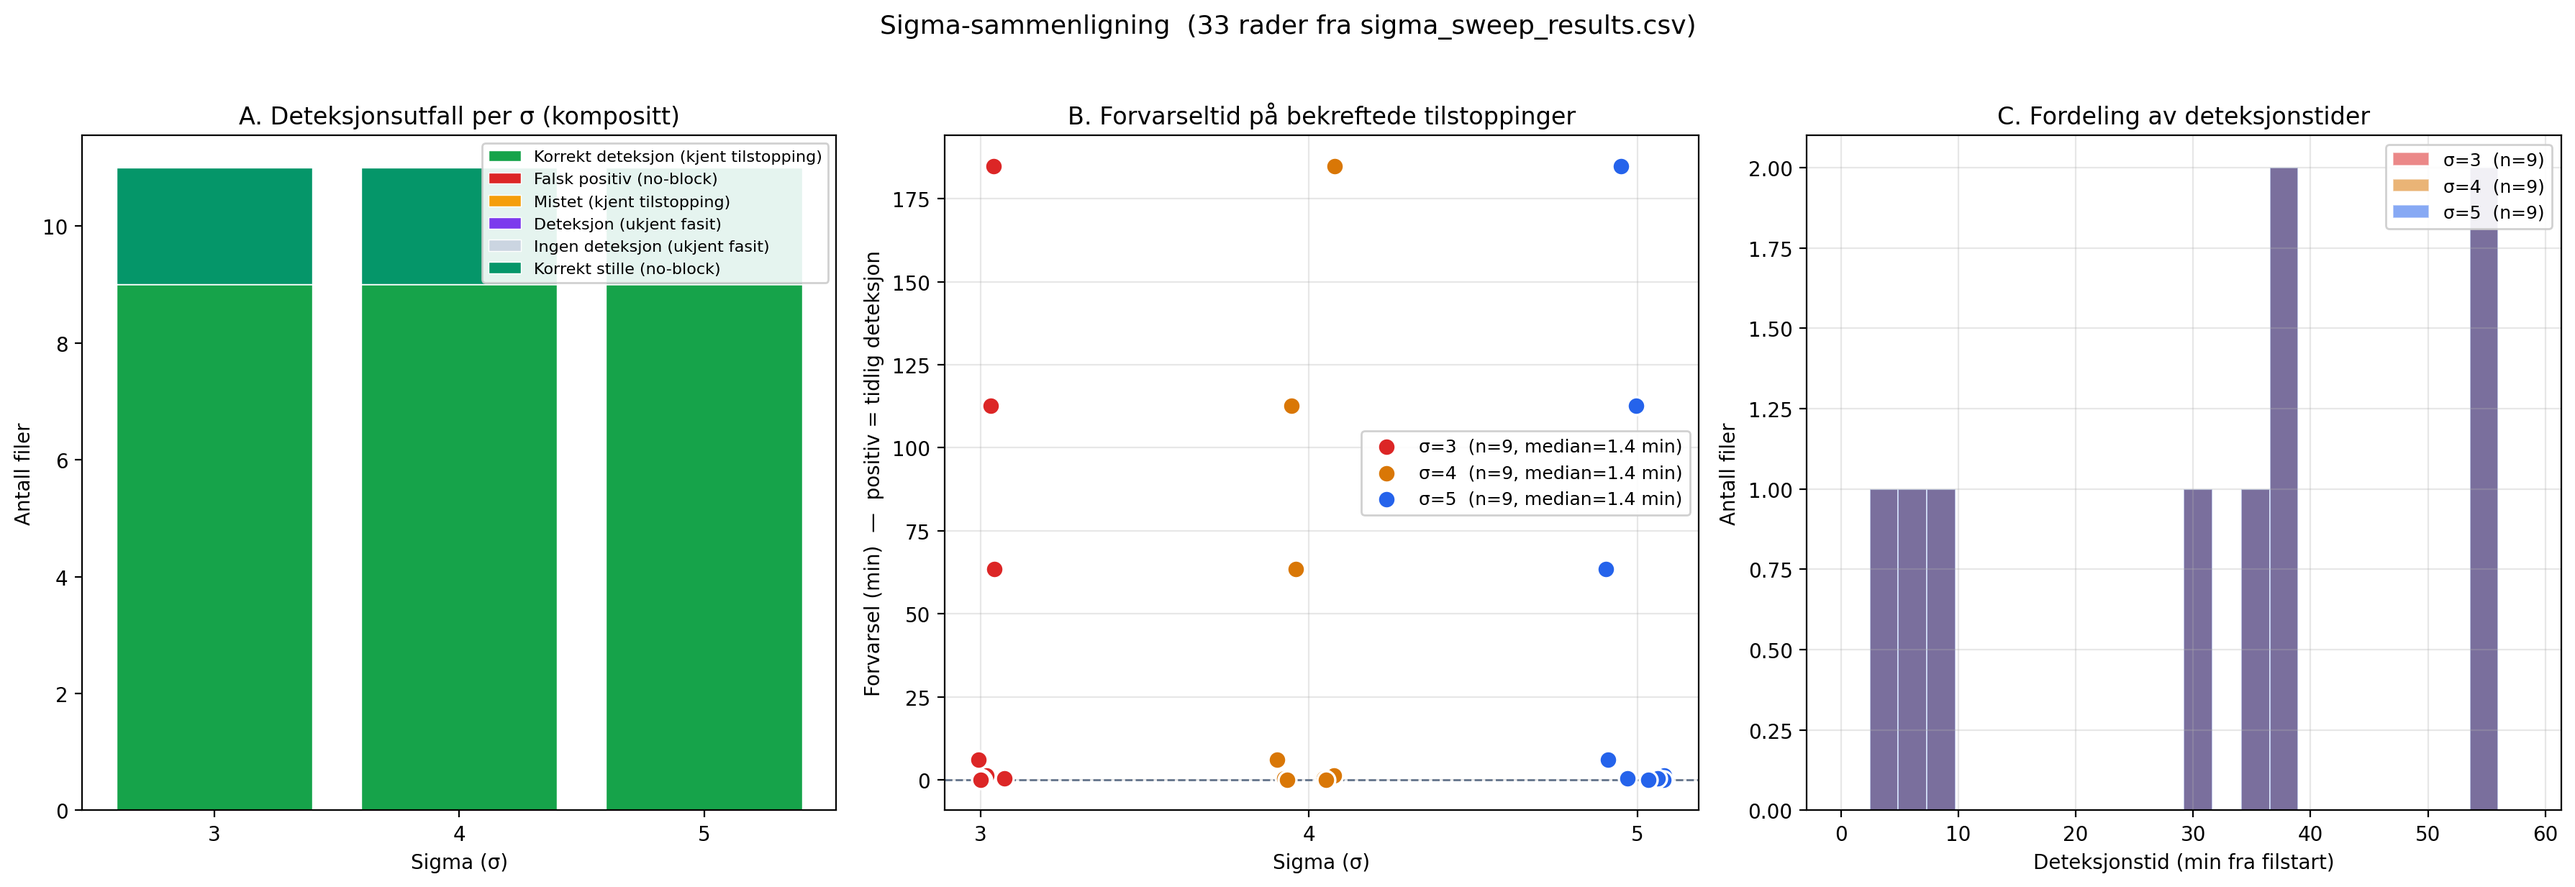
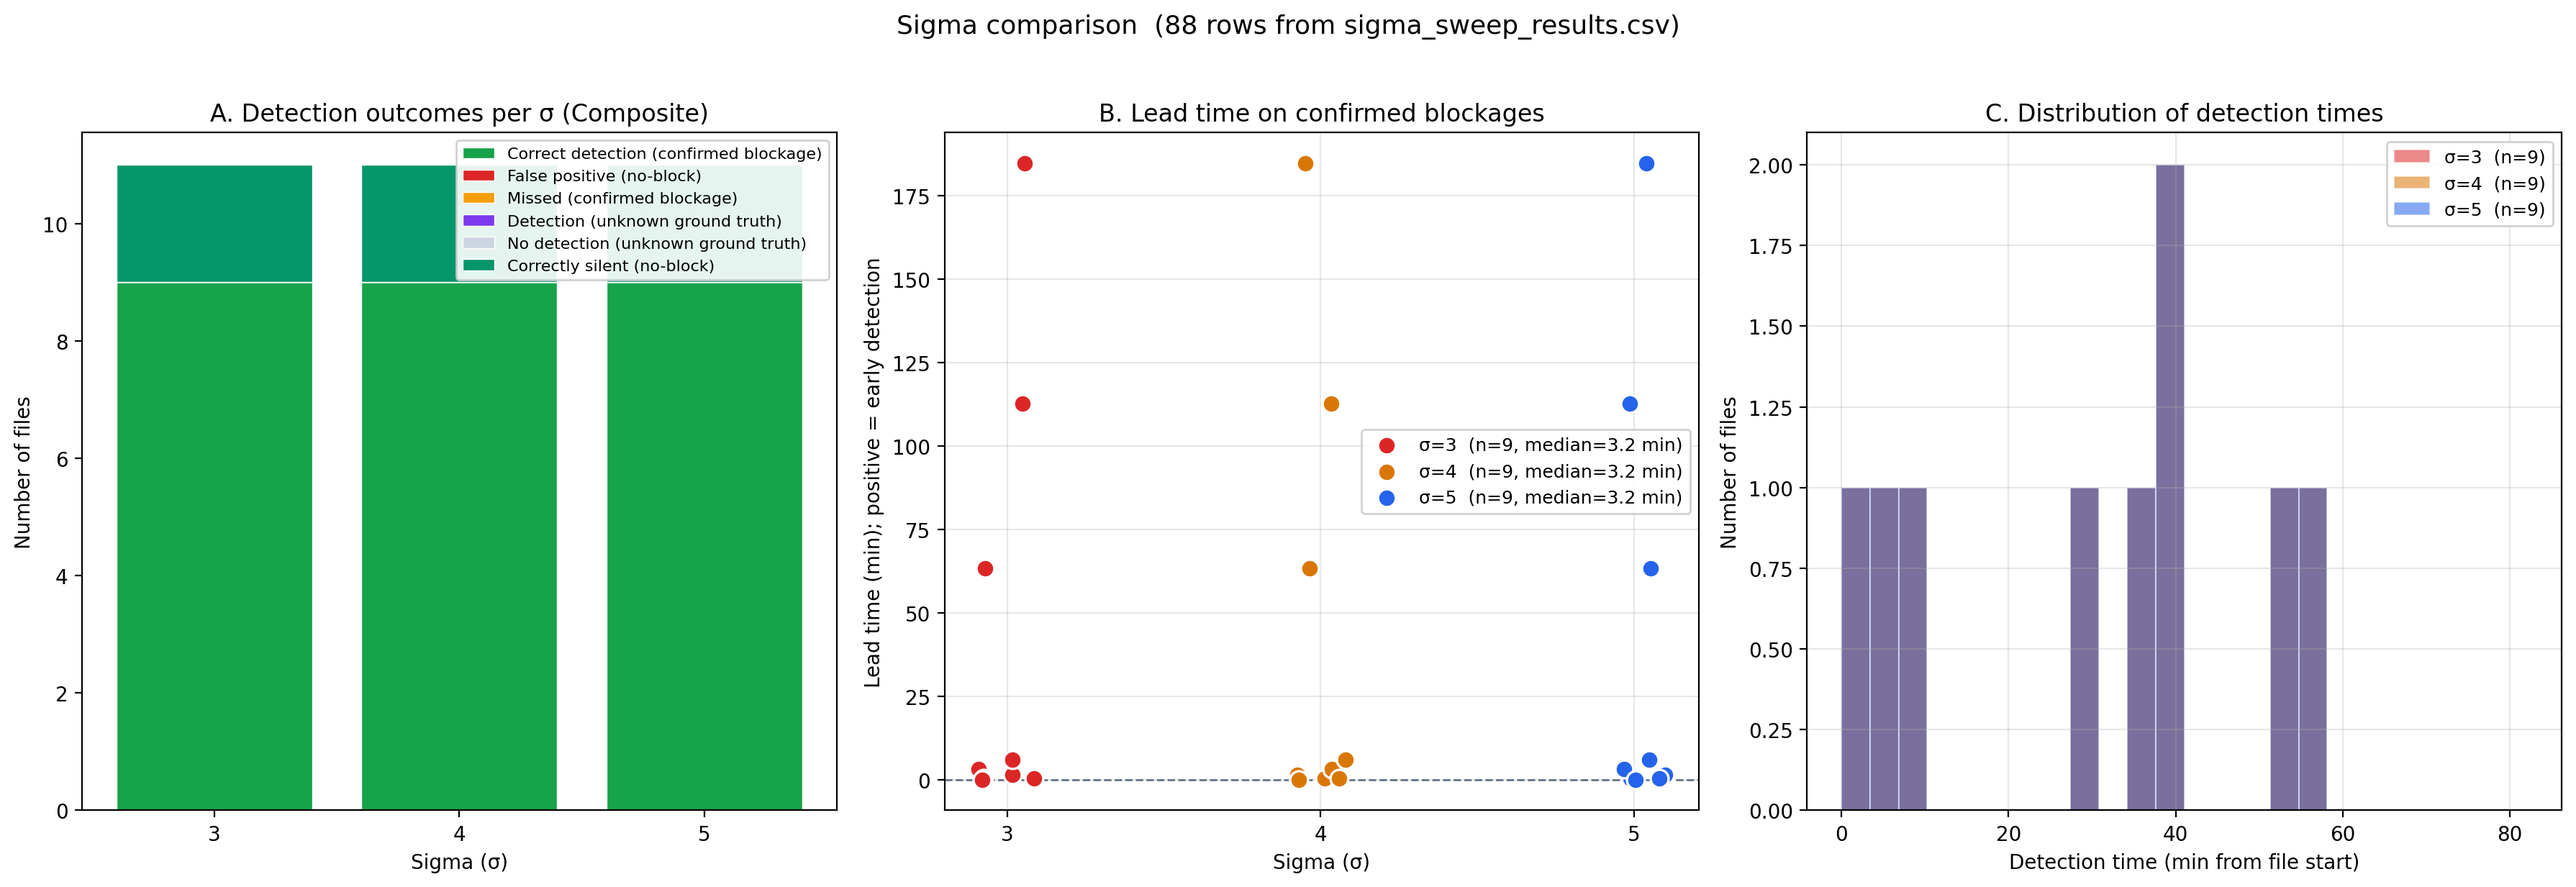
Regenerate sigma histogram and add per-run split analysis
- sigma_sweep_results.csv: correct 18-11-LF blockage time (6.833 -> 10.0),
  restoring its ~3.2 min lead; other rows unchanged.
- sigma_histogram.py: fix crash on the expanded sigma=1..8 sweep (skip the
  sigmas the figure does not plot); translate labels from Norwegian to
  English to match the thesis. Regenerated PNGs reflect the corrected lead.
- split_2906_by_run.py: new script reproducing the per-run analysis of
  29-06-LF (split at documented run timecodes, per-run calibration).

diff --git a/sigma_histogram.py b/sigma_histogram.py
@@ -67,6 +67,8 @@ def tally_per_sigma(rows: list[dict]) -> dict[int, dict[str, int]]:
     """Group rows by sigma and count outcome categories."""
     buckets: dict[int, dict[str, int]] = {s: {} for s in SIGMA_COLORS}
     for r in rows:
+        if r["sigma"] not in buckets:  # only the sigmas this figure plots (3, 4, 5)
+            continue
         cat = classify(r)
         buckets[r["sigma"]][cat] = buckets[r["sigma"]].get(cat, 0) + 1
     return buckets
@@ -79,12 +81,12 @@ def plot_outcome_bars(ax, counts: dict[int, dict[str, int]]) -> None:
     categories = ["true_positive", "false_positive", "missed",
                   "unknown_detected", "unknown_silent", "true_negative"]
     cat_labels = {
-        "true_positive":    "Korrekt deteksjon (kjent tilstopping)",
-        "false_positive":   "Falsk positiv (no-block)",
-        "missed":           "Mistet (kjent tilstopping)",
-        "unknown_detected": "Deteksjon (ukjent fasit)",
-        "unknown_silent":   "Ingen deteksjon (ukjent fasit)",
-        "true_negative":    "Korrekt stille (no-block)",
+        "true_positive":    "Correct detection (confirmed blockage)",
+        "false_positive":   "False positive (no-block)",
+        "missed":           "Missed (confirmed blockage)",
+        "unknown_detected": "Detection (unknown ground truth)",
+        "unknown_silent":   "No detection (unknown ground truth)",
+        "true_negative":    "Correctly silent (no-block)",
     }
     cat_colors = {
         "true_positive":    "#16a34a",
@@ -103,8 +105,8 @@ def plot_outcome_bars(ax, counts: dict[int, dict[str, int]]) -> None:
         bottoms += vals
     ax.set_xticks(sigmas)
     ax.set_xlabel("Sigma (σ)")
-    ax.set_ylabel("Antall filer")
-    ax.set_title("A. Deteksjonsutfall per σ (kompositt)")
+    ax.set_ylabel("Number of files")
+    ax.set_title("A. Detection outcomes per σ (Composite)")
     ax.legend(fontsize=8, loc="upper right", framealpha=0.9)
 
 
@@ -122,8 +124,8 @@ def plot_lead_times(ax, rows: list[dict]) -> None:
     ax.axhline(0, color="#64748b", linestyle="--", linewidth=1)
     ax.set_xticks(sorted(SIGMA_COLORS))
     ax.set_xlabel("Sigma (σ)")
-    ax.set_ylabel("Forvarsel (min)  —  positiv = tidlig deteksjon")
-    ax.set_title("B. Forvarseltid på bekreftede tilstoppinger")
+    ax.set_ylabel("Lead time (min); positive = early detection")
+    ax.set_title("B. Lead time on confirmed blockages")
     ax.legend(fontsize=9, loc="best", framealpha=0.9)
     ax.grid(True, alpha=0.3)
 
@@ -132,7 +134,7 @@ def plot_crossing_histogram(ax, rows: list[dict]) -> None:
     """Panel C — histogram of composite crossing times, per sigma."""
     all_crosses = [r["composite_cross"] for r in rows if r["composite_cross"] is not None]
     if not all_crosses:
-        ax.text(0.5, 0.5, "Ingen deteksjoner", transform=ax.transAxes, ha="center")
+        ax.text(0.5, 0.5, "No detections", transform=ax.transAxes, ha="center")
         return
     bins = np.linspace(0, max(all_crosses) * 1.05, 25)
     for sigma in sorted(SIGMA_COLORS):
@@ -140,9 +142,9 @@ def plot_crossing_histogram(ax, rows: list[dict]) -> None:
                    if r["sigma"] == sigma and r["composite_cross"] is not None]
         ax.hist(crosses, bins=bins, alpha=0.55, color=SIGMA_COLORS[sigma],
                 label=f"σ={sigma}  (n={len(crosses)})", edgecolor="white", linewidth=0.6)
-    ax.set_xlabel("Deteksjonstid (min fra filstart)")
-    ax.set_ylabel("Antall filer")
-    ax.set_title("C. Fordeling av deteksjonstider")
+    ax.set_xlabel("Detection time (min from file start)")
+    ax.set_ylabel("Number of files")
+    ax.set_title("C. Distribution of detection times")
     ax.legend(fontsize=9, loc="upper right", framealpha=0.9)
     ax.grid(True, alpha=0.3)
 
@@ -184,7 +186,7 @@ def main() -> None:
     plot_outcome_bars(axes[0], counts)
     plot_lead_times(axes[1], rows)
     plot_crossing_histogram(axes[2], rows)
-    fig.suptitle(f"Sigma-sammenligning  ({len(rows)} rader fra {CSV_PATH.name})",
+    fig.suptitle(f"Sigma comparison  ({len(rows)} rows from {CSV_PATH.name})",
                  fontsize=13, y=1.02)
     fig.tight_layout()
     fig.savefig(OUT_PATH, dpi=200, bbox_inches="tight")

diff --git a/split_2906_by_run.py b/split_2906_by_run.py
@@ -1,0 +1,91 @@
+"""
+Per-run analysis of 29-06-LF.
+
+29-06-LF is a single continuous recording of four consecutive flow-loop runs
+(run 1 clog-free; blockages confirmed by video in runs 2-4). Analysed as one
+file the composite score is contaminated by a differential-pressure regime
+change about 36 min in, so the file-level crossing is not a sound basis for a
+lead time. This script splits the recording at the documented run timecodes
+and analyses each run on its own, calibrating on that run's healthy opening.
+It reproduces the per-run table in the Results chapter ("Per-Run Analysis of
+29-06-LF").
+
+The blockage for each run is taken as the differential-pressure spike that
+marks the end of the run; the composite crossing uses the same 60 s rolling
+median as the sigma sweep. Run 4 is reported for completeness but is excluded
+from the thesis table because its blockage falls ~30 s before the recording
+ends, leaving the smoothing window too little data to time the crossing.
+
+Run: python3 split_2906_by_run.py
+"""
+import contextlib
+import os
+import sys
+from pathlib import Path
+
+import numpy as np
+import pandas as pd
+
+sys.path.insert(0, str(Path(__file__).parent))
+from app.batch import run_batch_analysis
+from sigma_sweep import first_composite_crossing_min
+
+SRC = Path(__file__).parent / "data" / "29-06-LF.xlsx"
+SIGMA = 3.0
+TAIL_SECONDS = 120  # extend each run to capture the blockage spike at its end
+
+# Documented run timecodes (time-of-day). The logger's calendar date is wrong,
+# but the time-of-day matches the lab log; the file spans 13:56:49-16:09:08.
+RUNS = [
+    ("Run 1 (no-block)", (14, 33, 5), (15, 14, 26)),
+    ("Run 2 (blockage)", (15, 20, 20), (15, 28, 59)),
+    ("Run 3 (blockage)", (15, 33, 24), (15, 44, 6)),
+    ("Run 4 (blockage)", (15, 49, 3), (16, 8, 7)),
+]
+
+P_IN = "TS inlet pressure (Mean)"
+P_OUT = "TS outlet pressure (Mean)"
+
+
+def main() -> None:
+    df = pd.read_excel(SRC)
+    df["Time"] = pd.to_datetime(df["Time"])
+    day = df["Time"].dt.normalize().iloc[0]
+
+    header = f"{'Run':18}{'dur (min)':>10}{'blockage':>10}{'crossing':>10}{'lead':>9}"
+    print(header)
+    print("-" * len(header))
+    for i, (name, start, end) in enumerate(RUNS, 1):
+        a = day + pd.Timedelta(hours=start[0], minutes=start[1], seconds=start[2])
+        b = (day + pd.Timedelta(hours=end[0], minutes=end[1], seconds=end[2])
+             + pd.Timedelta(seconds=TAIL_SECONDS))
+        seg = df[(df["Time"] >= a) & (df["Time"] <= b)].copy()
+        if len(seg) < 150:
+            print(f"{name:18} too short ({len(seg)} rows)")
+            continue
+
+        rel_min = ((seg["Time"] - seg["Time"].iloc[0]).dt.total_seconds() / 60.0).values
+        dP = (seg[P_IN] - seg[P_OUT]).values
+        blockage_min = float(rel_min[int(np.argmax(dP))])  # the end-of-run pressure spike
+
+        tmp = f"/tmp/2906_run{i}.csv"
+        seg.to_csv(tmp, index=False)
+        with open(os.devnull, "w") as devnull, contextlib.redirect_stdout(devnull):
+            result = run_batch_analysis(tmp, sigma=SIGMA)
+        crossing_min = first_composite_crossing_min(
+            result["timeseries"], result["thresholds"]["fft_threshold"]
+        )
+
+        is_block = "blockage" in name
+        if not is_block:
+            blk_s, cross_s, lead_s = "--", str(crossing_min), ("no FP" if crossing_min is None else "FP")
+        elif crossing_min is None:
+            blk_s, cross_s, lead_s = f"{blockage_min:.2f}", "none", "miss"
+        else:
+            lead_s = f"{(blockage_min - crossing_min) * 60:+.0f} s"
+            blk_s, cross_s = f"{blockage_min:.2f}", f"{crossing_min:.2f}"
+        print(f"{name:18}{rel_min[-1]:10.1f}{blk_s:>10}{cross_s:>10}{lead_s:>9}")
+
+
+if __name__ == "__main__":
+    main()
